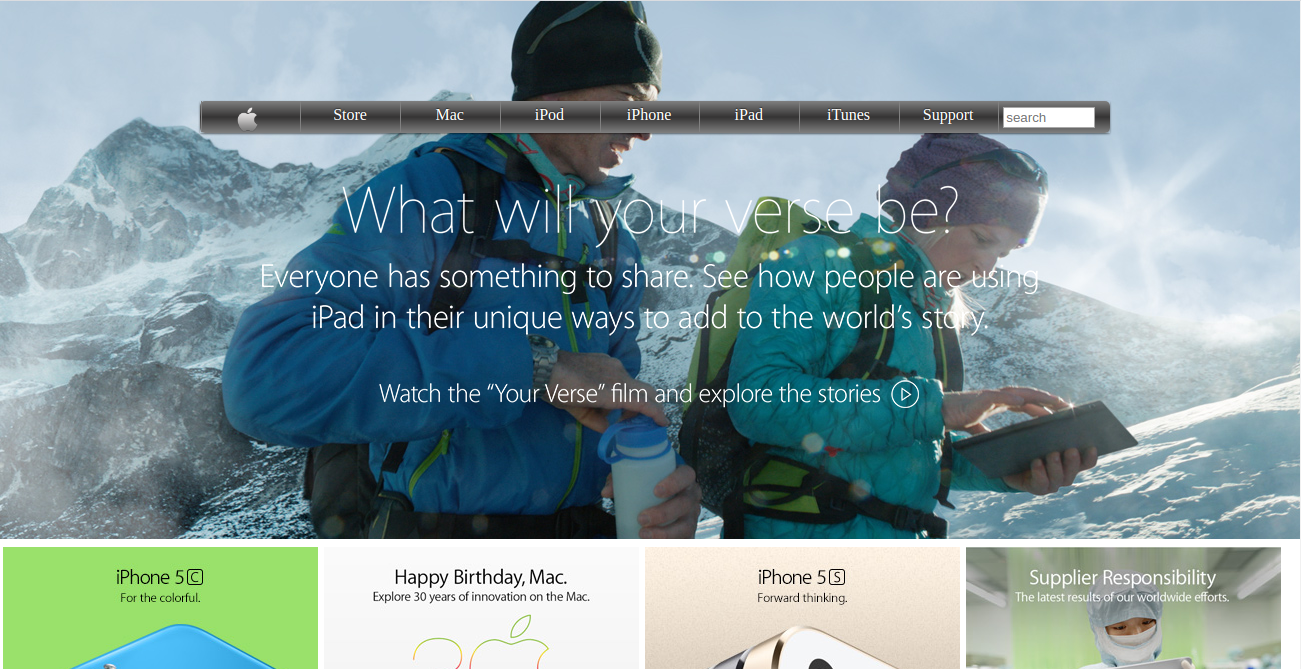
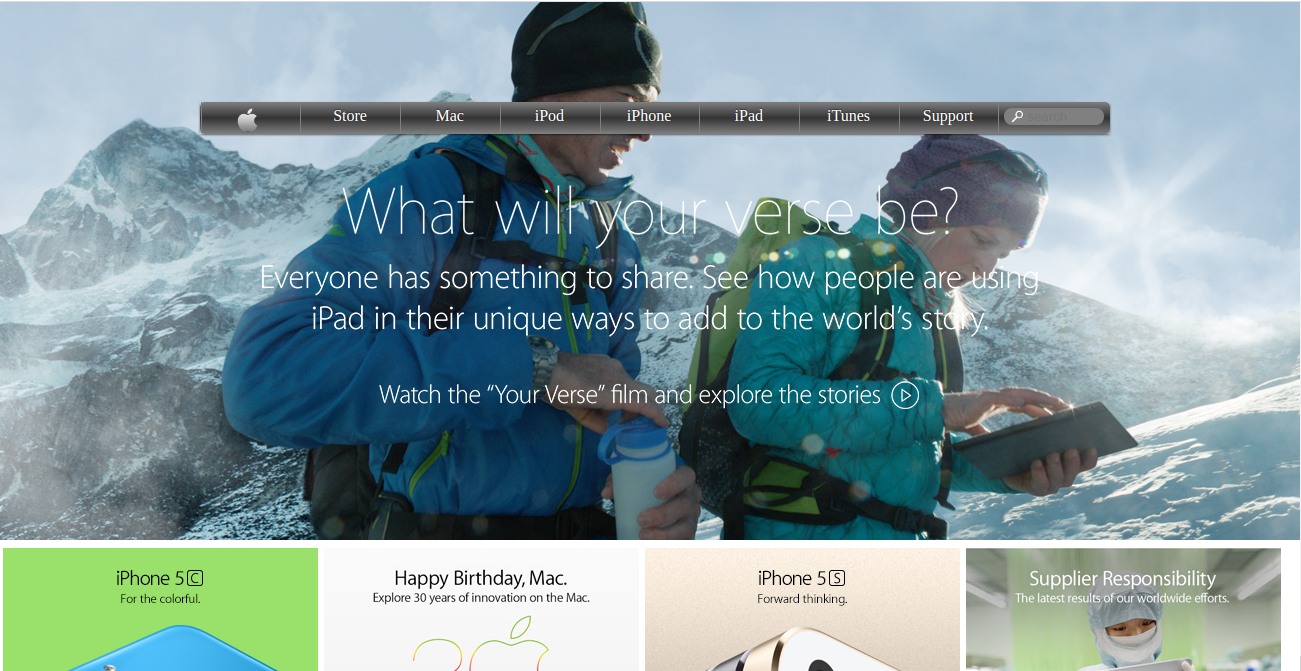
updated readme file code

diff --git a/main.css b/main.css
@@ -22,10 +22,7 @@ nav {
     top: 100px;
     left: 200px;
 }
-.search-input{
-    width: 92px;
-    border-radius:5px;
-}
+
 
 .logo {
     background-image: url('images/apple_logo.png');
@@ -82,8 +79,8 @@ ul > li:last-child:hover {
 
 
 
-ul > li > form > input {
-    border-radius: 19px;
+ul > li >input {
+   border-radius: 19px;
     border: none;
     margin-left: 5px;
     width: 100%;

diff --git a/index.html b/index.html
@@ -28,7 +28,7 @@
                 <li> <a href="#"> iTunes </a></li>
                 <li> <a href="#"> Support </a></li>
                 <li>
-                    <input class="search-input" type="search" placeholder="search">
+                    <input type="search" placeholder="search">
                 </li>
             </ul>
 
